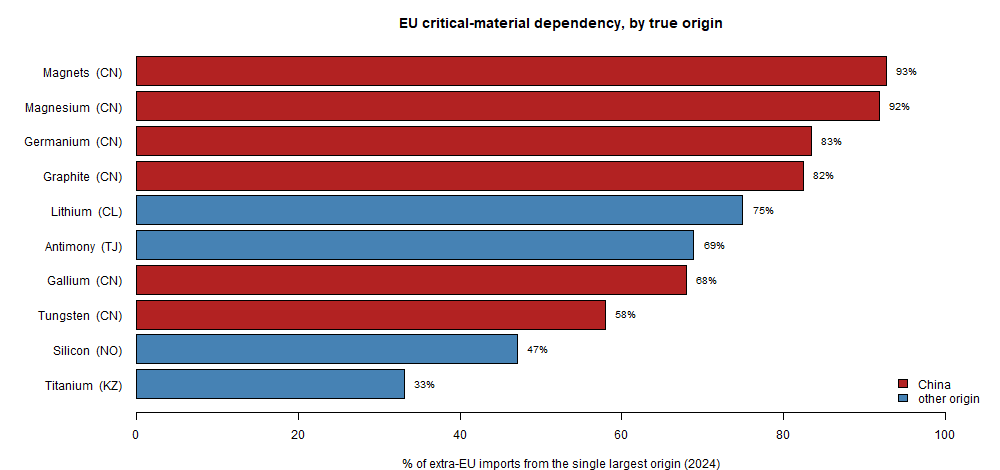
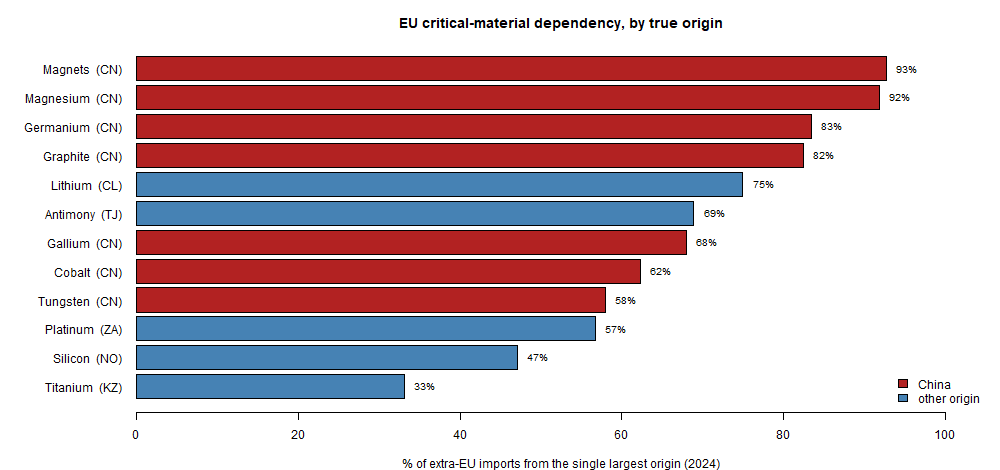
Widen atlas to 12: add cobalt oxides and platinum
Cobalt oxides (2822 00 00, China 62% - the refined-cobalt dependency the metal code missed, Belgium the naive decoy) and platinum (7110 11 00, South Africa 57%) join the atlas. Dropped after screening: cerium 2846 10 (Russia/China diffuse) and nickel 7502 10. Seven of twelve trace to China; the rest to Chile, Tajikistan, South Africa, Kazakhstan, Norway. build_static.R/README/methodology regenerated; overview now 12 bars.

diff --git a/index.html b/index.html
@@ -14,8 +14,8 @@
  footer{margin-top:2rem;font-size:.8rem;color:#777;border-top:1px solid #eee;padding-top:.8rem} a{color:firebrick}
 </style></head><body>
 <h1>Who does the EU really depend on?</h1>
-<p class="sub">Extra-EU import dependency across ten critical raw materials, corrected for the Rotterdam/Antwerp transit effect. Source: Eurostat Comext (public).</p>
-<p class="intro"><b>Naive</b> rankings by importing member state measure where goods are customs-cleared, not where they come from - distorted by the NL/BE port effect. <b>Corrected</b> rankings treat the EU as one entity and rank by country of origin (for extra-EU flows the Comext partner field is the origin). <b>Across all ten materials the constant is that the naive view is wrong</b> - China is the true origin for six; the rest reveal dependencies the naive view hides (lithium on Chile, antimony on Tajikistan, titanium on Kazakhstan), and silicon on Norway where the EU is genuinely fine. The gap between the two panels is the whole point.</p>
+<p class="sub">Extra-EU import dependency across twelve critical raw materials, corrected for the Rotterdam/Antwerp transit effect. Source: Eurostat Comext (public).</p>
+<p class="intro"><b>Naive</b> rankings by importing member state measure where goods are customs-cleared, not where they come from - distorted by the NL/BE port effect. <b>Corrected</b> rankings treat the EU as one entity and rank by country of origin (for extra-EU flows the Comext partner field is the origin). <b>Across all twelve materials the constant is that the naive view is wrong</b> - China is the true origin for seven; the rest reveal dependencies the naive view hides (lithium on Chile, antimony on Tajikistan, platinum on South Africa, titanium on Kazakhstan), and silicon on Norway where the EU is genuinely fine. The gap between the two panels is the whole point.</p>
 <h2>The landscape at a glance</h2>
 <img src="out/overview.png" alt="dependency overview - each material by its single largest true origin">
 <p class="note">Each bar is one material&#39;s single largest true origin and its share of 2024 extra-EU imports. Red = China; blue = another country. The naive member-state view hides every one of these.</p>
@@ -121,6 +121,23 @@
 <tr><td>JP</td><td class='n'>472 542</td><td class='n'>1.7</td><td class='n'>6.4%</td><td class='n'>1.8%</td></tr>
 <tr><td>HK</td><td class='n'>162 158</td><td class='n'>1.7</td><td class='n'>2.2%</td><td class='n'>1.8%</td></tr>
 <tr><td>US</td><td class='n'>161 729</td><td class='n'>3.4</td><td class='n'>2.2%</td><td class='n'>3.6%</td></tr></tbody></table></section>
+<section><h2>Cobalt oxides & hydroxides (CN 2822 00 00)</h2>
+<p class="note">The refined-cobalt dependency (the metal alone is diversified): China supplies ~62% of EU cobalt-oxide imports - the battery-cathode precursor. The naive view blames Belgium (~43%, Umicore's refining/clearing hub again); the origin is China, with the UK behind.</p>
+<div class="kpis">
+ <div class="kpi"><div class="v">62.2%</div><div class="l">China (value)</div></div>
+ <div class="kpi"><div class="v">63.8%</div><div class="l">China (tonnage)</div></div>
+ <div class="kpi"><div class="v">0.47</div><div class="l">HHI (value)</div></div>
+ <div class="kpi"><div class="v">EUR 19.3M</div><div class="l">Total extra-EU (2024)</div></div>
+</div>
+<img src="out/cobalt_headline.png" alt="naive vs corrected">
+<div class="two"><img src="out/cobalt_trend.png" alt="trend"><img src="out/cobalt_vq.png" alt="value vs tonnage"></div>
+<table><thead><tr><th>Origin</th><th class="n">Value (EUR)</th><th class="n">Tonnes</th><th class="n">Value %</th><th class="n">Tonnage %</th></tr></thead>
+<tbody><tr><td>CN</td><td class='n'>12 038 563</td><td class='n'>762.6</td><td class='n'>62.2%</td><td class='n'>63.8%</td></tr>
+<tr><td>GB</td><td class='n'>5 472 812</td><td class='n'>330.5</td><td class='n'>28.3%</td><td class='n'>27.6%</td></tr>
+<tr><td>BR</td><td class='n'>1 543 211</td><td class='n'>92.4</td><td class='n'>8.0%</td><td class='n'>7.7%</td></tr>
+<tr><td>KR</td><td class='n'>197 248</td><td class='n'>9.0</td><td class='n'>1.0%</td><td class='n'>0.8%</td></tr>
+<tr><td>US</td><td class='n'>29 136</td><td class='n'>0.2</td><td class='n'>0.1%</td><td class='n'>0.0%</td></tr>
+<tr><td>JP</td><td class='n'>28 124</td><td class='n'>0.1</td><td class='n'>0.1%</td><td class='n'>0.0%</td></tr></tbody></table></section>
 <section><h2>Lithium carbonate (CN 2836 91 00)</h2>
 <p class="note">The battery metal - a concentrated dependency, but NOT on China: Chile supplies ~75% (the South American 'lithium triangle'), with the US and Argentina behind. The naive view blames the Netherlands and Germany (clearing hubs); the origin is South America.</p>
 <div class="kpis">
@@ -155,6 +172,23 @@
 <tr><td>CN</td><td class='n'>18 266 502</td><td class='n'>1 127.2</td><td class='n'>5.8%</td><td class='n'>5.9%</td></tr>
 <tr><td>TR</td><td class='n'>7 982 269</td><td class='n'>498.1</td><td class='n'>2.5%</td><td class='n'>2.6%</td></tr>
 <tr><td>KR</td><td class='n'>7 463 159</td><td class='n'>403.7</td><td class='n'>2.4%</td><td class='n'>2.1%</td></tr></tbody></table></section>
+<section><h2>Platinum, unwrought (CN 7110 11 00)</h2>
+<p class="note">Platinum-group metals - autocatalysts and the hydrogen economy. A concentrated non-China dependency: South Africa ~57%, with the UK and US behind. The naive view points at Germany (~43%); the origin is South Africa.</p>
+<div class="kpis">
+ <div class="kpi"><div class="v">0.0%</div><div class="l">China (value)</div></div>
+ <div class="kpi"><div class="v">0.0%</div><div class="l">China (tonnage)</div></div>
+ <div class="kpi"><div class="v">0.37</div><div class="l">HHI (value)</div></div>
+ <div class="kpi"><div class="v">EUR 1.07B</div><div class="l">Total extra-EU (2024)</div></div>
+</div>
+<img src="out/platinum_headline.png" alt="naive vs corrected">
+<div class="two"><img src="out/platinum_trend.png" alt="trend"><img src="out/platinum_vq.png" alt="value vs tonnage"></div>
+<table><thead><tr><th>Origin</th><th class="n">Value (EUR)</th><th class="n">Tonnes</th><th class="n">Value %</th><th class="n">Tonnage %</th></tr></thead>
+<tbody><tr><td>ZA</td><td class='n'>606 651 078</td><td class='n'>21.0</td><td class='n'>56.7%</td><td class='n'>56.2%</td></tr>
+<tr><td>GB</td><td class='n'>187 391 680</td><td class='n'>6.5</td><td class='n'>17.5%</td><td class='n'>17.4%</td></tr>
+<tr><td>US</td><td class='n'>130 944 788</td><td class='n'>4.6</td><td class='n'>12.2%</td><td class='n'>12.3%</td></tr>
+<tr><td>CH</td><td class='n'>72 022 537</td><td class='n'>2.5</td><td class='n'>6.7%</td><td class='n'>6.7%</td></tr>
+<tr><td>JP</td><td class='n'>38 946 036</td><td class='n'>1.3</td><td class='n'>3.6%</td><td class='n'>3.5%</td></tr>
+<tr><td>SA</td><td class='n'>9 280 536</td><td class='n'>0.3</td><td class='n'>0.9%</td><td class='n'>0.8%</td></tr></tbody></table></section>
 <section><h2>Titanium, unwrought (CN 8108 20 00)</h2>
 <p class="note">Aerospace-grade titanium, post-Russia. The naive view says France (~40%); the corrected view shows Kazakhstan (~33%) and the US (~25%) - the sponge supply that replaced Russia after 2022. A recognised strategic metal sourced from Central Asia, invisible in the member-state view.</p>
 <div class="kpis">

diff --git a/methodology.html b/methodology.html
@@ -37,7 +37,7 @@ ports (or refined in hubs such as Umicore in Belgium) but bound elsewhere. This 
 into a single importer and ranks by true origin. This is the answer.</li>
 </ul>
 
-<h2>Evidence — ten critical materials (2024)</h2>
+<h2>Evidence — twelve critical materials (2024)</h2>
 <table>
 <thead><tr><th>Material (CN8)</th><th>Naive top — member state</th><th>Corrected top — origin</th><th class="n">HHI</th></tr></thead>
 <tbody>
@@ -47,18 +47,20 @@ into a single importer and ranks by true origin. This is the answer.</li>
 <tr><td>Graphite (2504 90 00)</td><td><b>Germany 58%</b>, SE 15%</td><td><b>China 82%</b>, MG 9%, BR 5%</td><td class="n">0.69</td></tr>
 <tr><td>Gallium (8112 92 89)</td><td><b>Germany 78%</b>, NL 15%</td><td><b>China 68%</b>, CA 15%, RU 13%</td><td class="n">0.50</td></tr>
 <tr><td>Tungsten (8101 94 00)</td><td><b>Germany 55%</b>, FR 13%</td><td><b>China 58%</b>, GB 22%, CH 8%</td><td class="n">0.40</td></tr>
+<tr><td>Cobalt oxides (2822 00 00)</td><td><b>Belgium 43%</b>, DE 18%</td><td><b>China 62%</b>, GB 28%, BR 8%</td><td class="n">0.47</td></tr>
 <tr><td>Lithium carbonate (2836 91 00)</td><td><b>Netherlands 39%</b>, DE 34%</td><td><b>Chile 75%</b>, US 13%, AR 6%</td><td class="n">0.58</td></tr>
 <tr><td>Antimony (8110 10 00)</td><td>France 37%, Belgium 37%</td><td><b>Tajikistan 69%</b>, VN 10%, CN 6%</td><td class="n">0.49</td></tr>
+<tr><td>Platinum (7110 11 00)</td><td><b>Germany 43%</b>, IT 21%</td><td><b>South Africa 57%</b>, GB 18%, US 12%</td><td class="n">0.37</td></tr>
 <tr><td>Titanium (8108 20 00)</td><td><b>France 40%</b>, IT 22%</td><td><b>Kazakhstan 33%</b>, US 25%, CA 12%</td><td class="n">0.21</td></tr>
 <tr><td>Silicon &lt;99.99% (2804 69 00)</td><td><b>Germany 44%</b>, NL 23%</td><td><b>Norway 47%</b>, BR 15%, IS 9%</td><td class="n">0.26</td></tr>
 </tbody>
 </table>
-<p>Across all ten the naive and corrected panels disagree on the single most important fact —
-who the EU depends on — and only the corrected one is true. China is the real origin for six;
-the other four are the point: <b>lithium</b> traces to <b>Chile</b>, <b>antimony</b> to
-<b>Tajikistan</b>, <b>titanium</b> to <b>Kazakhstan</b>, and <b>silicon</b> to <b>Norway</b> —
-none of them visible in the member-state view. The method surfaces whatever the transit data
-hides; it is not a China-finding machine.</p>
+<p>Across all twelve the naive and corrected panels disagree on the single most important fact —
+who the EU depends on — and only the corrected one is true. China is the real origin for seven;
+the other five are the point: <b>lithium</b> traces to <b>Chile</b>, <b>antimony</b> to
+<b>Tajikistan</b>, <b>platinum</b> to <b>South Africa</b>, <b>titanium</b> to <b>Kazakhstan</b>,
+and <b>silicon</b> to <b>Norway</b> — none of them visible in the member-state view. The method
+surfaces whatever the transit data hides; it is not a China-finding machine.</p>
 
 <h2>Why it can't be faked from the raw download</h2>
 

diff --git a/README.md b/README.md
@@ -3,9 +3,10 @@
 **Live atlas → https://materials-atlas.github.io/eu_trade_dependency/**
 
 Public-data demo: **who does the EU *really* depend on for critical raw materials?**
-An atlas of **ten** critical materials — rare-earth magnets, magnesium, germanium,
-graphite, gallium, tungsten, lithium, antimony, titanium and silicon — corrected for the
-transit-port distortion. The pipeline is parameterised by CN code, so it generalises to any.
+An atlas of **twelve** critical materials — rare-earth magnets, magnesium, germanium,
+graphite, gallium, tungsten, cobalt, lithium, antimony, platinum, titanium and silicon —
+corrected for the transit-port distortion. The pipeline is parameterised by CN code, so it
+generalises to any.
 
 The point is methodological. The obvious way to read the data is the wrong one:
 
@@ -19,12 +20,13 @@ The point is methodological. The obvious way to read the data is the wrong one:
 
 The headline chart puts the two side by side — that visible gap is the whole pitch.
 
-## The atlas: ten critical materials (2024, corrected to origin)
+## The atlas: twelve critical materials (2024, corrected to origin)
 
 The constant across every material is that **the naive member-state view is wrong**.
-China is the true origin for six of the ten; the rest reveal dependencies the naive view
-hides — lithium on Chile, antimony on Tajikistan, titanium on Kazakhstan, silicon on
-Norway — the cases that show the method *measures* rather than confirms.
+China is the true origin for seven of the twelve; the rest reveal dependencies the naive
+view hides — lithium on Chile, antimony on Tajikistan, platinum on South Africa, titanium
+on Kazakhstan, silicon on Norway — the cases that show the method *measures* rather than
+confirms.
 
 | Material | Naive top (member state) | Corrected top (origin) | HHI |
 |----------|--------------------------|------------------------|----:|
@@ -33,9 +35,11 @@ Norway — the cases that show the method *measures* rather than confirms.
 | Germanium | **Belgium 63 %** | **China 83 %** | 0.71 |
 | Graphite | **Germany 58 %** | **China 82 %** | 0.69 |
 | Gallium | **Germany 78 %** | **China 68 %** | 0.50 |
+| Cobalt (oxides) | **Belgium 43 %** | **China 62 %**, GB 28 % | 0.47 |
 | Tungsten | **Germany 55 %** | **China 58 %**, GB 22 % | 0.40 |
 | Lithium carbonate | **Netherlands 39 %**, DE 34 % | **Chile 75 %**, US 13 % | 0.58 |
 | Antimony | France / Belgium 37 % each | **Tajikistan 69 %**, China 6 % | 0.49 |
+| Platinum | **Germany 43 %** | **South Africa 57 %**, GB 18 % | 0.37 |
 | Titanium | **France 40 %** | **Kazakhstan 33 %**, US 25 % | 0.21 |
 | Silicon | **Germany 44 %** | **Norway 47 %**, BR 15 % | 0.26 |
 
@@ -43,9 +47,10 @@ Highlights: **germanium** is the cleanest trap (Belgium = Umicore's Antwerp hub,
 origin). **Gallium** carries the geopolitics — China's origin share runs 96.8 % (2022) →
 85 % (2023) → 68 % (2024) as Canada and Russia step in, China's July-2023 export controls
 visible directly in customs data. **Lithium** is the cleanest non-China dependency (Chile
-75 %), and **antimony** the biggest surprise (Tajikistan, where the naive view says
-France/Belgium). Most series run 2010–2024 (magnets only from 2023, when its CN8 code was
-created).
+75 %), **antimony** the biggest surprise (Tajikistan, where the naive view says
+France/Belgium), and **cobalt** and **platinum** extend the pattern — China 62 % of refined
+cobalt (Belgium the decoy), South Africa 57 % of platinum. Most series run 2010–2024
+(magnets only from 2023, when its CN8 code was created).
 
 ## Method notes (the hard-to-fake bits)
 
@@ -68,8 +73,8 @@ Self-contained, base R only — no package installs.
 #    code; fetch the whole atlas at once (PowerShell):
 $atlas = @{ magnets='85051110'; magnesium='81041100'; germanium='81129295';
             graphite='25049000'; gallium='81129289'; tungsten='81019400';
-            lithium='28369100'; antimony='81101000'; titanium='81082000';
-            silicon='28046900' }
+            cobalt='28220000'; lithium='28369100'; antimony='81101000';
+            platinum='71101100'; titanium='81082000'; silicon='28046900' }
 $atlas.GetEnumerator() | ForEach-Object { .\download_data.ps1 -Product $_.Value -Label $_.Key }
 # 2. build the magnets datasets + headline chart, then the static atlas (base R)
 Rscript comext-magnet-dependency-demo.R
